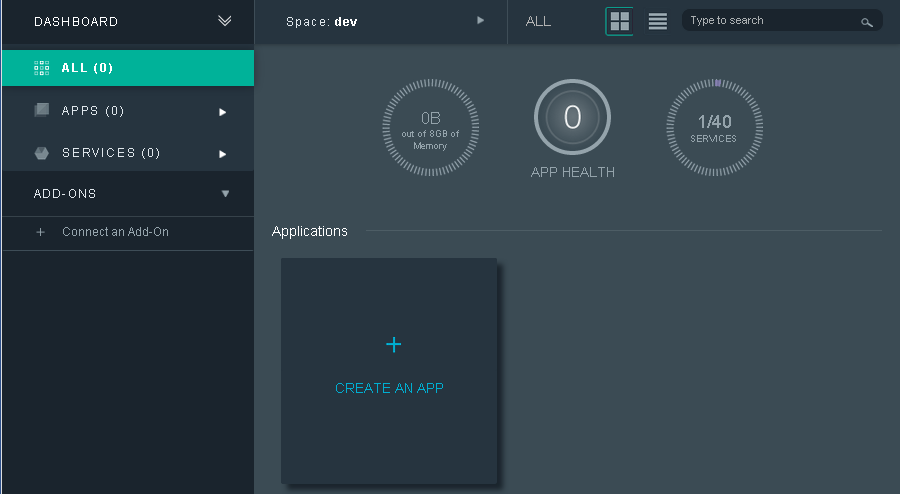
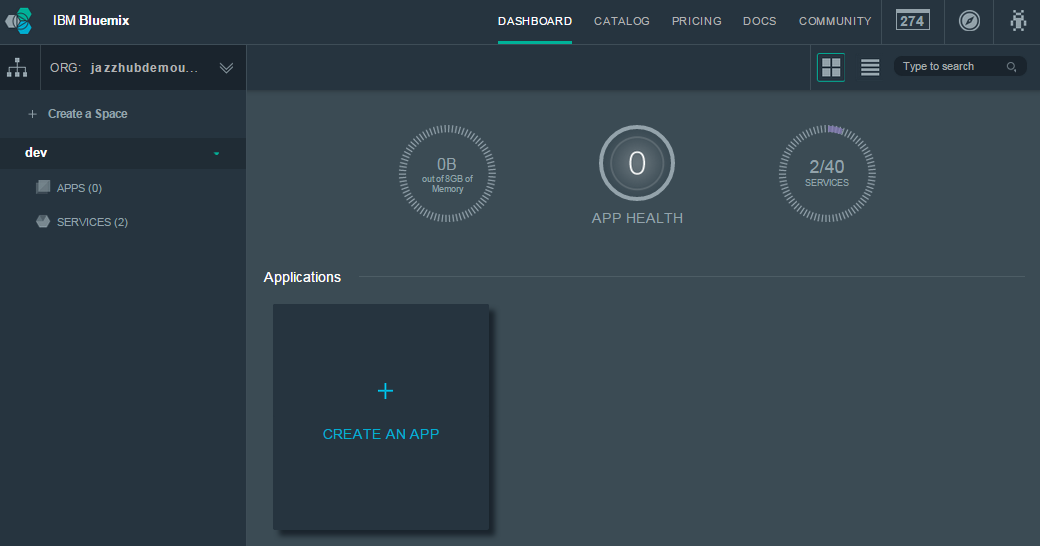
added last mod date and updated image

diff --git a/tutorials/jazzeditor/index.md b/tutorials/jazzeditor/index.md
@@ -1,5 +1,7 @@
 #Getting Started with IBM Bluemix and IBM DevOps Services using Node.js
 
+Last modified: 17 November 2014
+
 ##Create an application with IBM Bluemix
 
 [IBM&reg; Bluemix&trade;](https://bluemix.net/) is an open-standards, cloud-based platform for building, managing, and running all types
@@ -9,8 +11,6 @@ all through an as-a-service model in the cloud.
 
 Before you can use the Bluemix capabilities, you have to sign up. To sign up, go to the [IBM Bluemix home page](https://bluemix.net/) and 
 click **Sign up for a free trial**.
-
-![Sign up for a free trial](/tutorials/jazzeditor/images/bm-join.png)
 
 After you sign up, the [IBM Bluemix site](https://bluemix.net/) offers helpful information about Bluemix:
 
